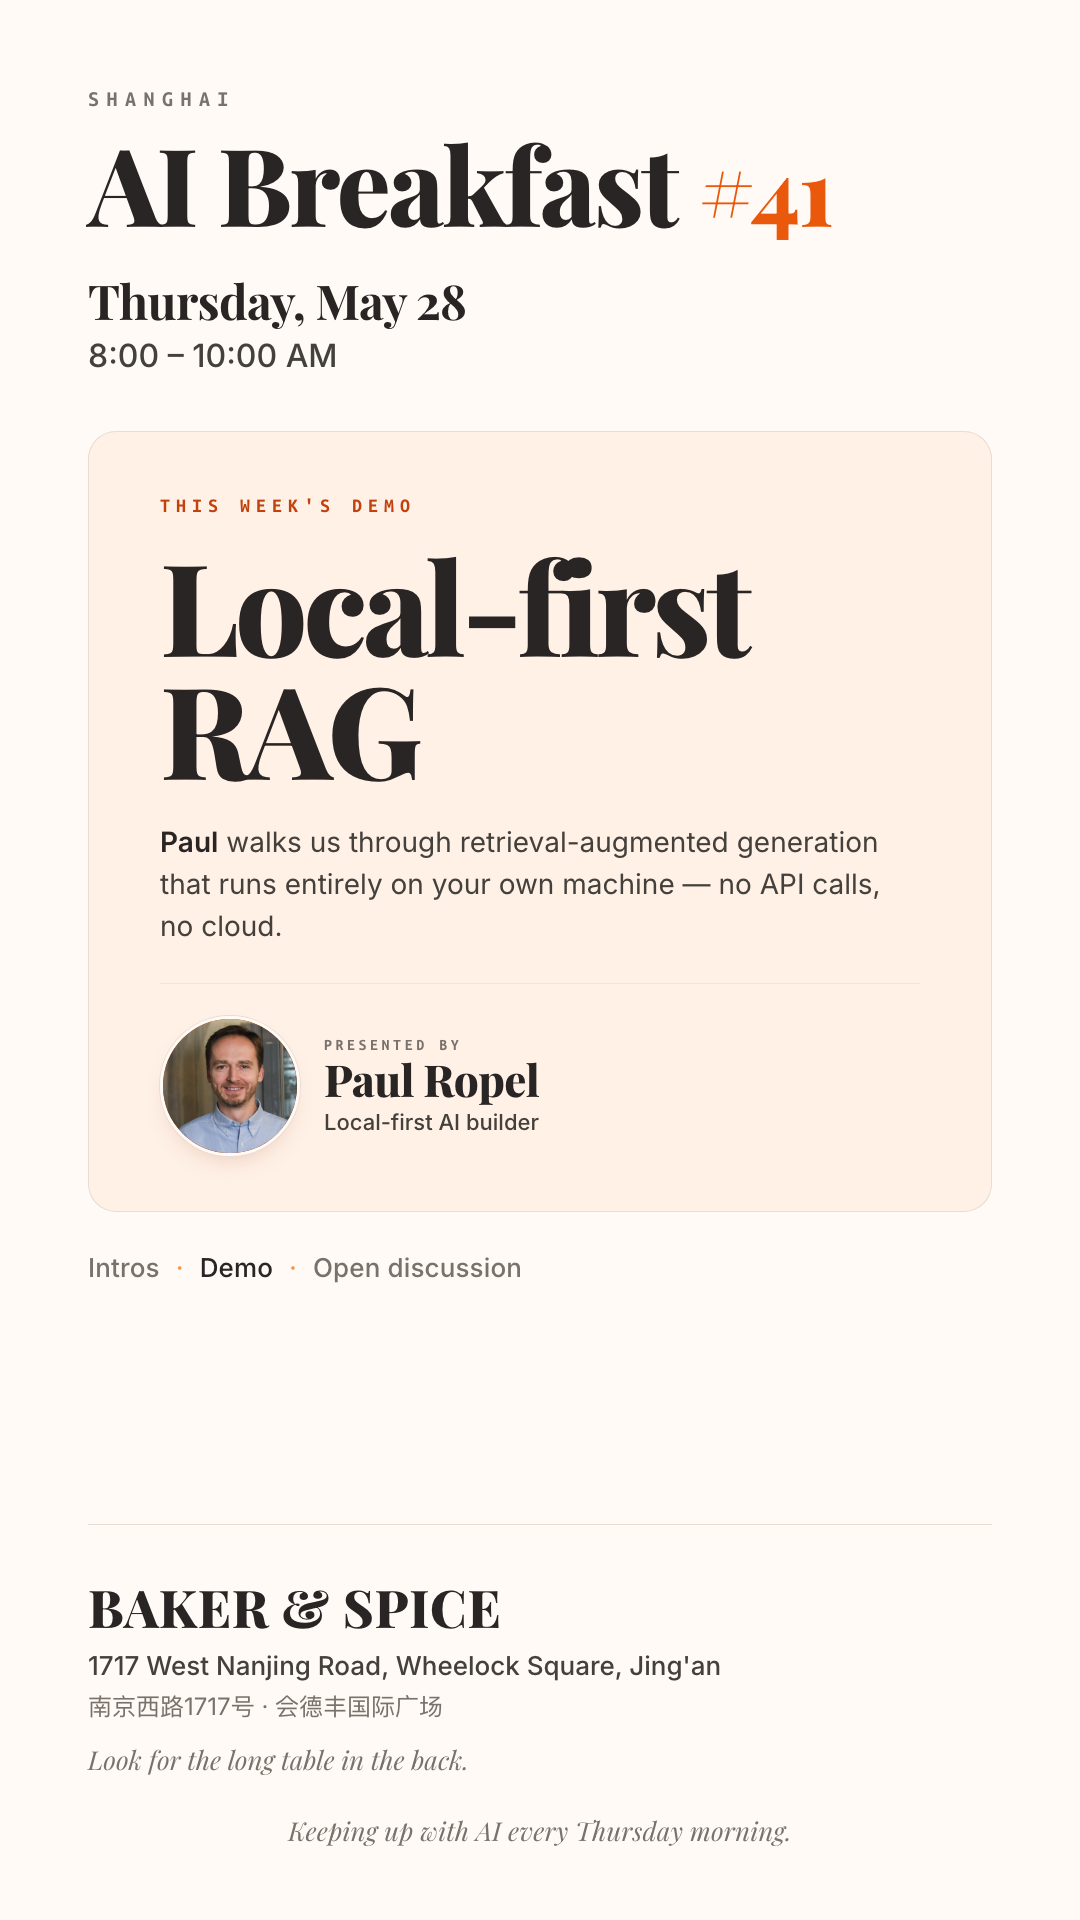
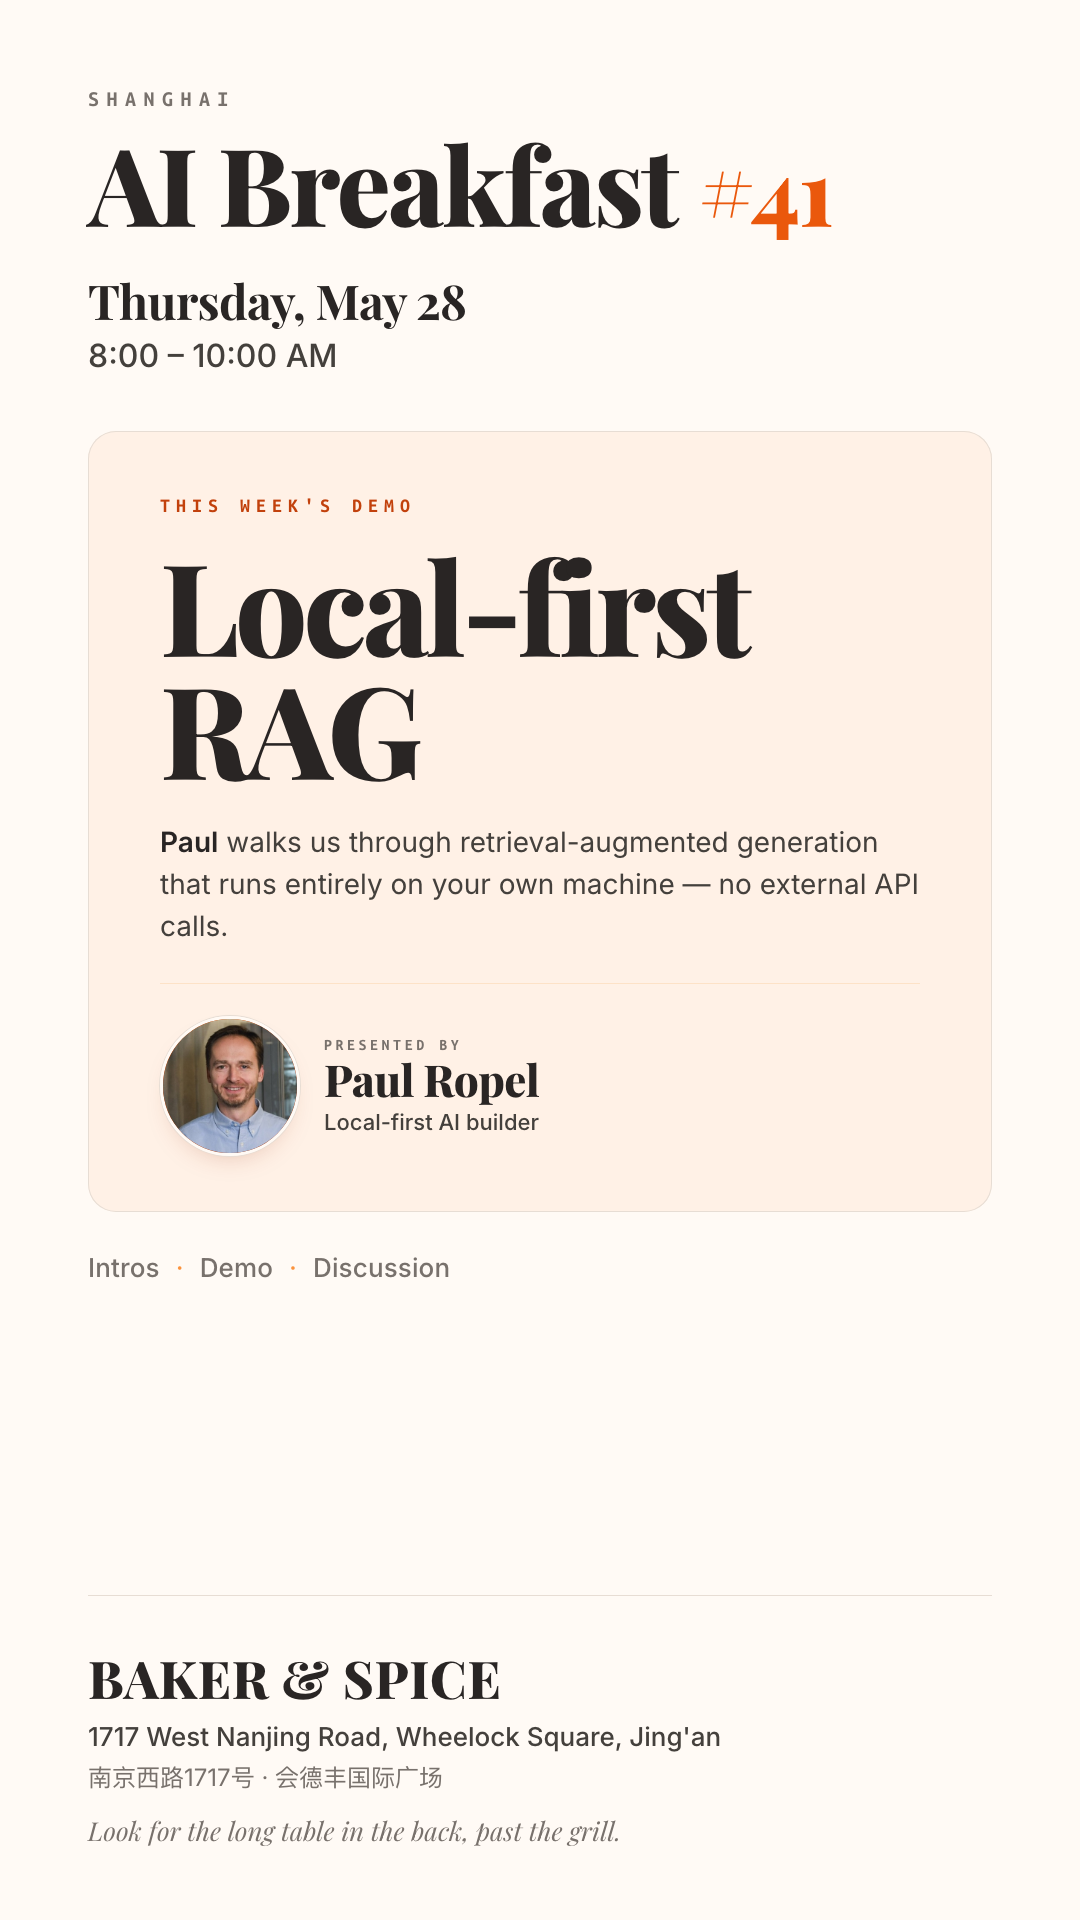
Polish #41 poster copy and agenda treatment
- Agenda now reads Intros · Demo · Discussion in a single uniform style
  (dropped the .hot emphasis on Demo entirely; "Open" trimmed)
- Demo blurb: "no external API calls" replaces "no API calls, no cloud"
- Venue hint adds "past the grill" so folks find the back table
- Removed the bottom "Keeping up with AI..." tagline
- Removed "via WeChat" hint under the QR block (the label above is enough)

diff --git a/events/2026/ai-breakfast-41/poster-qr.html b/events/2026/ai-breakfast-41/poster-qr.html
@@ -319,7 +319,7 @@
           <div class="card-label">This week's demo</div>
           <div class="card-title">Local-first RAG</div>
           <div class="card-blurb">
-            <em>Paul</em> walks us through retrieval-augmented generation that runs entirely on your own machine — no API calls, no cloud.
+            <em>Paul</em> walks us through retrieval-augmented generation that runs entirely on your own machine — no external API calls.
           </div>
           <div class="byline">
             <img class="avatar" src="images/speakers/paul.jpeg" alt="Paul Ropel" />
@@ -332,7 +332,7 @@
         </div>
 
         <div class="agenda-line">
-          Intros<span class="sep">·</span><span class="hot">Demo</span><span class="sep">·</span>Open discussion
+          Intros<span class="sep">·</span>Demo<span class="sep">·</span>Discussion
         </div>
 
         <div class="footer">
@@ -340,16 +340,13 @@
             <div class="venue-name">Baker &amp; Spice</div>
             <div class="venue-addr">1717 West Nanjing Road, Wheelock Square, Jing'an</div>
             <div class="venue-cn">南京西路1717号 · 会德丰国际广场</div>
-            <div class="venue-hint">Look for the long table in the back.</div>
+            <div class="venue-hint">Look for the long table in the back, past the grill.</div>
           </div>
           <div class="qr-block">
             <div class="qr-label">Scan to register</div>
             <img src="images/qr-codes/wechat-mini-program.png" alt="Register QR" />
-            <div class="qr-hint">via WeChat</div>
           </div>
         </div>
-
-        <div class="slogan">Keeping up with AI every Thursday morning.</div>
       </div>
     </div>
   </body>

diff --git a/events/2026/ai-breakfast-41/poster.html b/events/2026/ai-breakfast-41/poster.html
@@ -282,7 +282,7 @@
           <div class="card-label">This week's demo</div>
           <div class="card-title">Local-first RAG</div>
           <div class="card-blurb">
-            <em>Paul</em> walks us through retrieval-augmented generation that runs entirely on your own machine — no API calls, no cloud.
+            <em>Paul</em> walks us through retrieval-augmented generation that runs entirely on your own machine — no external API calls.
           </div>
           <div class="byline">
             <img class="avatar" src="images/speakers/paul.jpeg" alt="Paul Ropel" />
@@ -296,7 +296,7 @@
 
         <!-- Agenda line -->
         <div class="agenda-line">
-          Intros<span class="sep">·</span><span class="hot">Demo</span><span class="sep">·</span>Open discussion
+          Intros<span class="sep">·</span>Demo<span class="sep">·</span>Discussion
         </div>
 
         <!-- Footer -->
@@ -304,11 +304,8 @@
           <div class="venue-name">Baker &amp; Spice</div>
           <div class="venue-addr">1717 West Nanjing Road, Wheelock Square, Jing'an</div>
           <div class="venue-cn">南京西路1717号 · 会德丰国际广场</div>
-          <div class="venue-hint">Look for the long table in the back.</div>
+          <div class="venue-hint">Look for the long table in the back, past the grill.</div>
         </div>
-
-        <!-- Slogan -->
-        <div class="slogan">Keeping up with AI every Thursday morning.</div>
       </div>
     </div>
   </body>

diff --git a/events/2026/ai-breakfast-41/banner.html b/events/2026/ai-breakfast-41/banner.html
@@ -258,7 +258,7 @@
           <div class="demo-label">This week's demo</div>
           <div class="demo-title">Local-first RAG</div>
           <div class="demo-blurb">
-            <em>Paul</em> on retrieval-augmented generation that runs on your own machine — no API calls, no cloud.
+            <em>Paul</em> on retrieval-augmented generation that runs on your own machine — no external API calls.
           </div>
         </div>
         <div class="byline">
